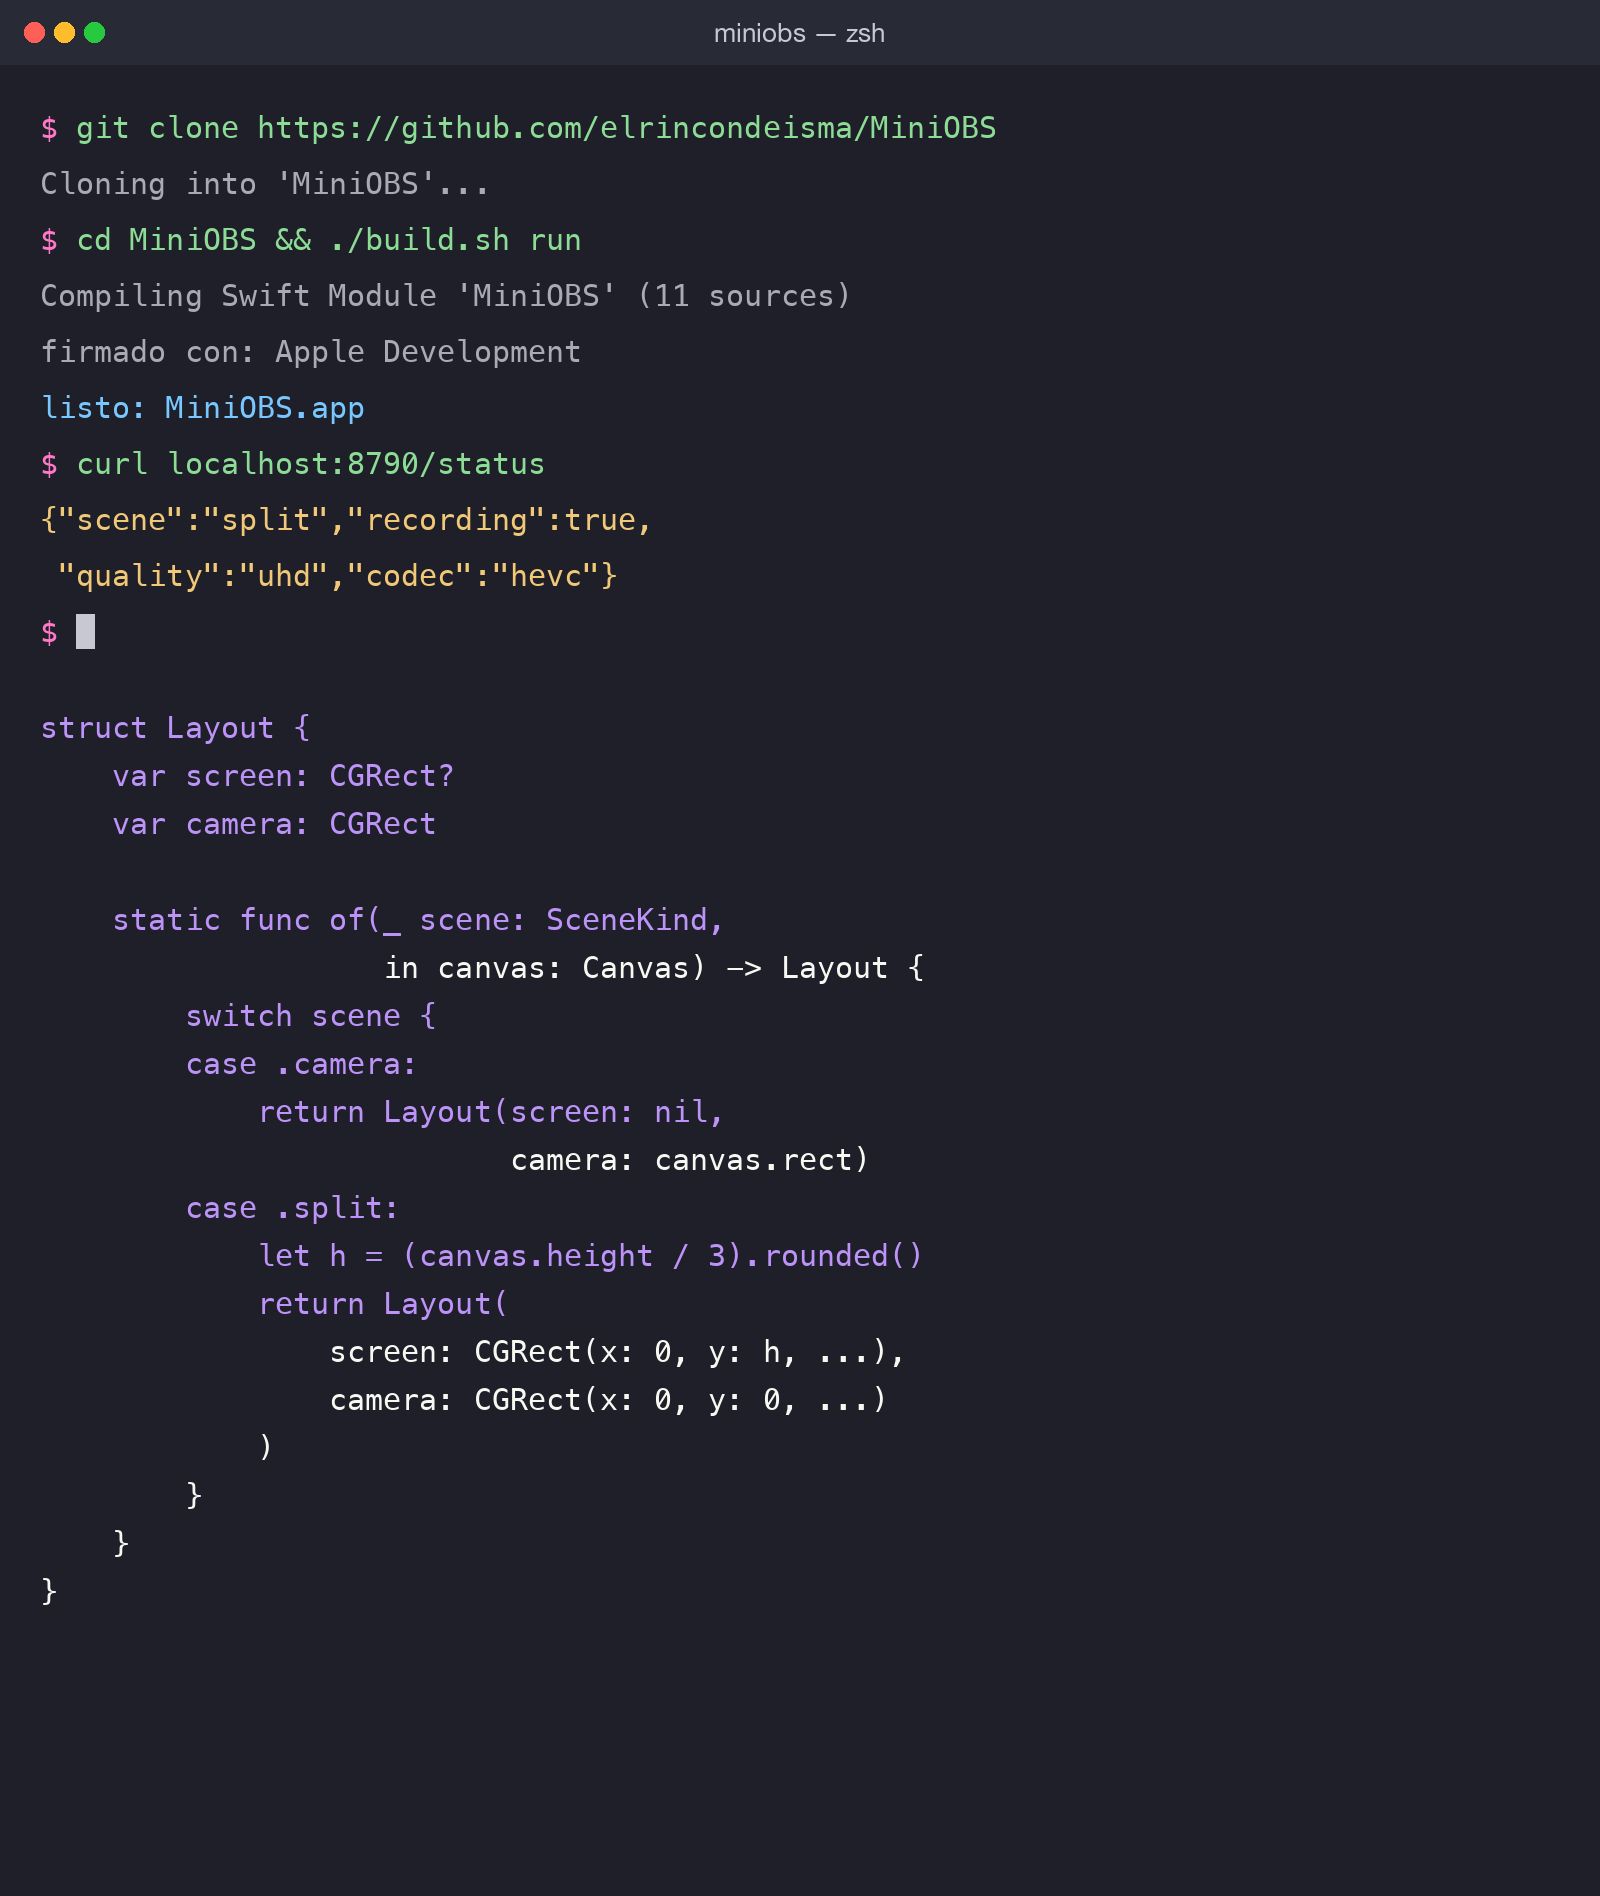
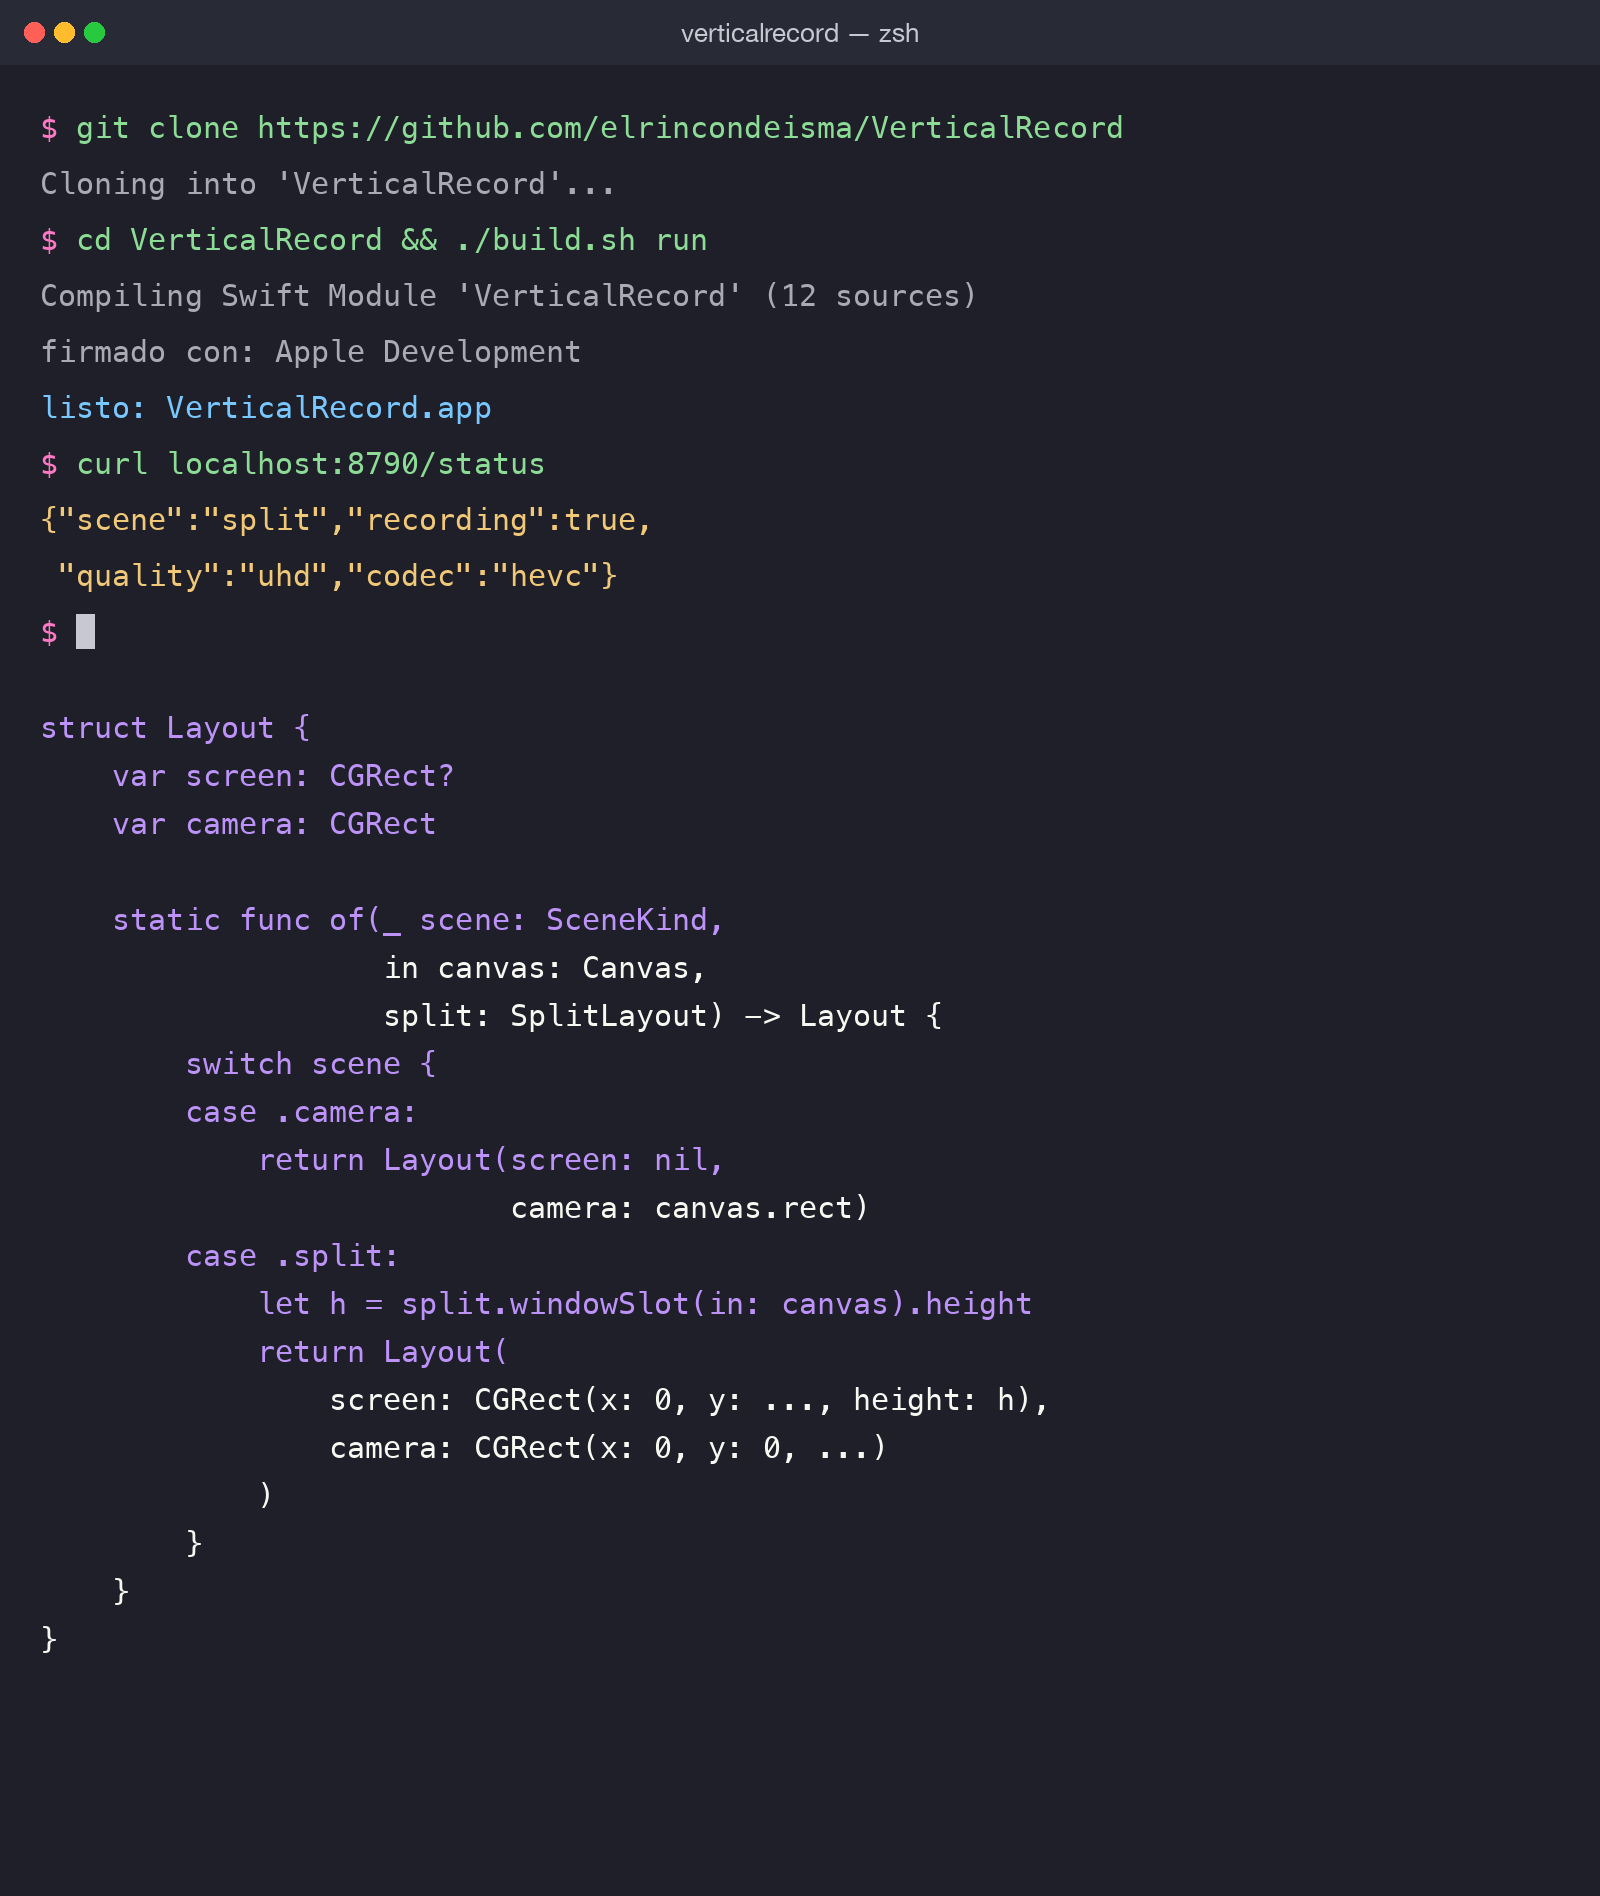
Renombrar MiniOBS a VerticalRecord
«OBS» es marca del OBS Project y su política no permite usarla en el nombre
de otro software. Cambian el nombre de la app, el bundle
(com.elrincondeisma.verticalrecord), la carpeta de grabaciones
(~/Movies/VerticalRecord), el repo y las capturas. La primera vez que
arranca hereda las preferencias de MiniOBS y renombra la carpeta de
grabaciones. Versión 1.1.0.

diff --git a/Sources/VerticalRecord/Engine.swift b/Sources/VerticalRecord/Engine.swift
@@ -33,7 +33,7 @@ final class Engine: ObservableObject {
 
     let preview = PreviewLayerHost()
     static let defaultOutputFolder = FileManager.default.homeDirectoryForCurrentUser
-        .appendingPathComponent("Movies/MiniOBS", isDirectory: true)
+        .appendingPathComponent("Movies/VerticalRecord", isDirectory: true)
 
     var canvas: Canvas { quality.canvas }
 
@@ -41,7 +41,7 @@ final class Engine: ObservableObject {
     private let screen = ScreenCapture()
     private var control: ControlServer?
 
-    private let renderQueue = DispatchQueue(label: "miniobs.render", qos: .userInteractive)
+    private let renderQueue = DispatchQueue(label: "verticalrecord.render", qos: .userInteractive)
     private var timer: DispatchSourceTimer?
     private let shared = SharedState()
     private var secondsTimer: Timer?
@@ -61,7 +61,7 @@ final class Engine: ObservableObject {
     struct Demo {
         let camera: CVPixelBuffer
         let window: ScreenFrame
-        let windowNames = ["Warp — miniobs", "Xcode — MiniOBS.xcodeproj", "Arc — Documentación"]
+        let windowNames = ["Warp — verticalrecord", "Xcode — VerticalRecord.xcodeproj", "Arc — Documentación"]
     }
 
     init() {
@@ -115,7 +115,7 @@ final class Engine: ObservableObject {
         startControlServer()
         startRenderLoop()
 
-        // Al volver a MiniOBS (viniendo de abrir otra app, por ejemplo) la
+        // Al volver a VerticalRecord (viniendo de abrir otra app, por ejemplo) la
         // lista de ventanas se pone al día sola.
         NotificationCenter.default.addObserver(forName: NSApplication.didBecomeActiveNotification, object: nil, queue: .main) { [weak self] _ in
             Task { @MainActor in await self?.refreshWindows() }
@@ -438,7 +438,28 @@ final class Engine: ObservableObject {
     private var savedWindowApp: String?
     private var savedWindowTitle: String?
 
+    /// La app se llamó MiniOBS hasta la 1.0. Al cambiar el identificador del
+    /// bundle, macOS estrena preferencias: la primera vez se heredan las viejas
+    /// y la carpeta de grabaciones se renombra, para que nadie pierda nada.
+    private func migrateFromMiniOBS() {
+        guard UserDefaults.standard.data(forKey: "saved") == nil,
+              let old = UserDefaults(suiteName: "com.elrincondeisma.miniobs"),
+              let data = old.data(forKey: "saved") else { return }
+        let fm = FileManager.default
+        let oldFolder = fm.homeDirectoryForCurrentUser.appendingPathComponent("Movies/MiniOBS", isDirectory: true)
+        if fm.fileExists(atPath: oldFolder.path), !fm.fileExists(atPath: Engine.defaultOutputFolder.path) {
+            try? fm.moveItem(at: oldFolder, to: Engine.defaultOutputFolder)
+        }
+        var migrated = data
+        if var saved = try? JSONDecoder().decode(Saved.self, from: data) {
+            if saved.outputFolder == oldFolder.path { saved.outputFolder = Engine.defaultOutputFolder.path }
+            migrated = (try? JSONEncoder().encode(saved)) ?? data
+        }
+        UserDefaults.standard.set(migrated, forKey: "saved")
+    }
+
     private func load() {
+        migrateFromMiniOBS()
         guard let data = UserDefaults.standard.data(forKey: "saved"),
               let saved = try? JSONDecoder().decode(Saved.self, from: data) else { return }
         if let s = saved.scene { scene = s }

diff --git a/Sources/VerticalRecord/CameraCapture.swift b/Sources/VerticalRecord/CameraCapture.swift
@@ -5,11 +5,11 @@ import CoreMedia
 /// mismo reloj (el del host) y el grabador puede mezclar sus tiempos sin más.
 final class CameraCapture: NSObject {
     private let session = AVCaptureSession()
-    private let videoQueue = DispatchQueue(label: "miniobs.camera.video")
-    private let audioQueue = DispatchQueue(label: "miniobs.camera.audio")
+    private let videoQueue = DispatchQueue(label: "verticalrecord.camera.video")
+    private let audioQueue = DispatchQueue(label: "verticalrecord.camera.audio")
     /// Arrancar y parar la sesión bloquea (la OBSBOT tarda ~1 s en despertar):
     /// nunca desde el hilo principal.
-    private let sessionQueue = DispatchQueue(label: "miniobs.camera.session")
+    private let sessionQueue = DispatchQueue(label: "verticalrecord.camera.session")
     private var observers: [NSObjectProtocol] = []
     private let videoOutput = AVCaptureVideoDataOutput()
     private let audioOutput = AVCaptureAudioDataOutput()

diff --git a/Sources/VerticalRecord/WindowFitter.swift b/Sources/VerticalRecord/WindowFitter.swift
@@ -117,7 +117,7 @@ enum FitError: LocalizedError {
 
     var errorDescription: String? {
         switch self {
-        case .notTrusted: return "MiniOBS necesita Accesibilidad para redimensionar ventanas: actívalo en Ajustes > Privacidad y seguridad > Accesibilidad."
+        case .notTrusted: return "VerticalRecord necesita Accesibilidad para redimensionar ventanas: actívalo en Ajustes > Privacidad y seguridad > Accesibilidad."
         case .noApp: return "La ventana no tiene app dueña."
         case .noWindows: return "La app no expone sus ventanas por Accesibilidad."
         case .notFound: return "No encuentro esa ventana por Accesibilidad; vuelve a elegirla (↻)."

diff --git a/Sources/VerticalRecord/PreferencesView.swift b/Sources/VerticalRecord/PreferencesView.swift
@@ -50,7 +50,7 @@ struct PreferencesView: View {
                     .help("Abrir en el Finder")
                 }
                 if engine.outputFolder != Engine.defaultOutputFolder {
-                    Button("Volver a ~/Movies/MiniOBS") { engine.outputFolder = Engine.defaultOutputFolder }
+                    Button("Volver a ~/Movies/VerticalRecord") { engine.outputFolder = Engine.defaultOutputFolder }
                         .font(.caption)
                 }
             }

diff --git a/Package.swift b/Package.swift
@@ -2,12 +2,12 @@
 import PackageDescription
 
 let package = Package(
-    name: "MiniOBS",
+    name: "VerticalRecord",
     platforms: [.macOS(.v15)],
     targets: [
         .executableTarget(
-            name: "MiniOBS",
-            path: "Sources/MiniOBS",
+            name: "VerticalRecord",
+            path: "Sources/VerticalRecord",
             swiftSettings: [.swiftLanguageMode(.v5)],
             linkerSettings: [
                 .linkedFramework("ScreenCaptureKit"),

diff --git a/Sources/VerticalRecord/VerticalRecordApp.swift b/Sources/VerticalRecord/VerticalRecordApp.swift
@@ -1,12 +1,12 @@
 import SwiftUI
 
 @main
-struct MiniOBSApp: App {
+struct VerticalRecordApp: App {
     @StateObject private var engine = Engine()
     @NSApplicationDelegateAdaptor(AppDelegate.self) private var delegate
 
     var body: some Scene {
-        WindowGroup("MiniOBS") {
+        WindowGroup("VerticalRecord") {
             ContentView()
                 .environmentObject(engine)
         }

diff --git a/Sources/VerticalRecord/ScreenCapture.swift b/Sources/VerticalRecord/ScreenCapture.swift
@@ -15,7 +15,7 @@ struct ScreenFrame {
 /// de qué la tape (`desktopIndependentWindow`).
 final class ScreenCapture: NSObject {
     private var stream: SCStream?
-    private let queue = DispatchQueue(label: "miniobs.screen")
+    private let queue = DispatchQueue(label: "verticalrecord.screen")
     private let lock = NSLock()
     private var _latest: ScreenFrame?
 

diff --git a/Sources/VerticalRecord/ControlServer.swift b/Sources/VerticalRecord/ControlServer.swift
@@ -15,7 +15,7 @@ final class ControlServer {
     static let defaultPort: UInt16 = 8790
 
     private var listener: NWListener?
-    private let queue = DispatchQueue(label: "miniobs.control")
+    private let queue = DispatchQueue(label: "verticalrecord.control")
     private let handler: Handler
 
     init(handler: @escaping Handler) {
